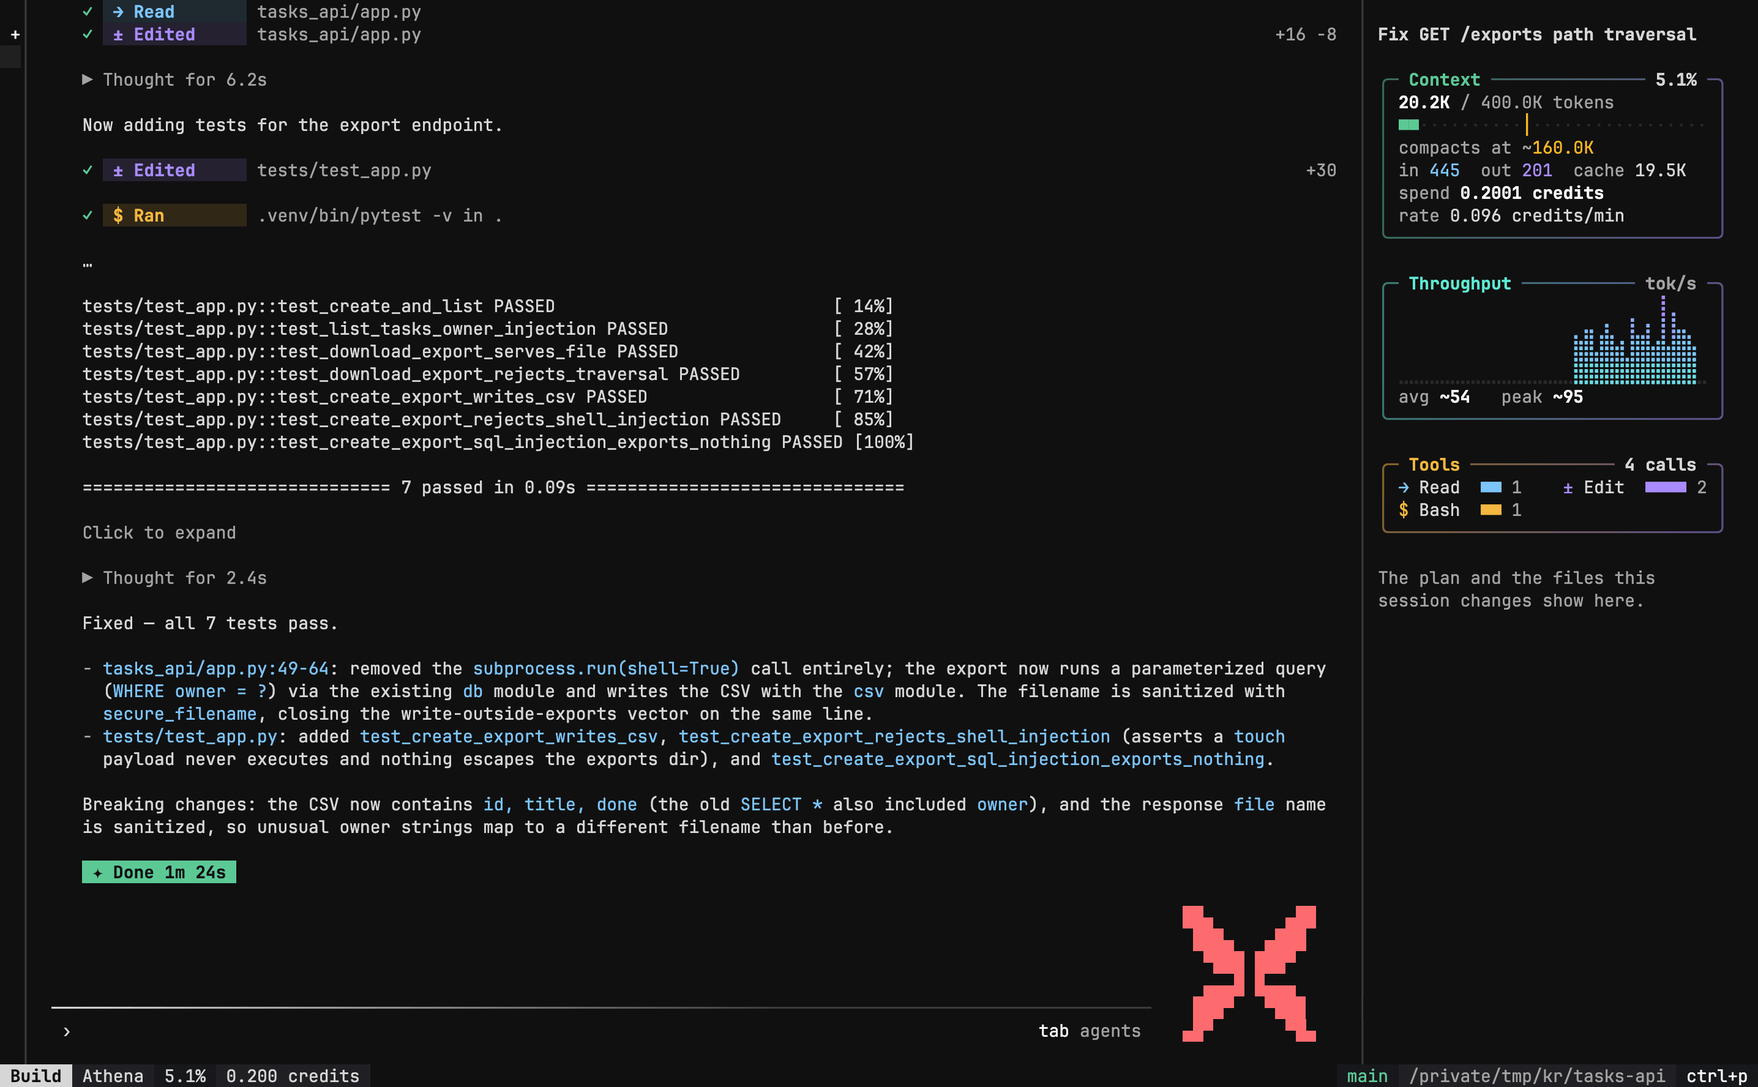
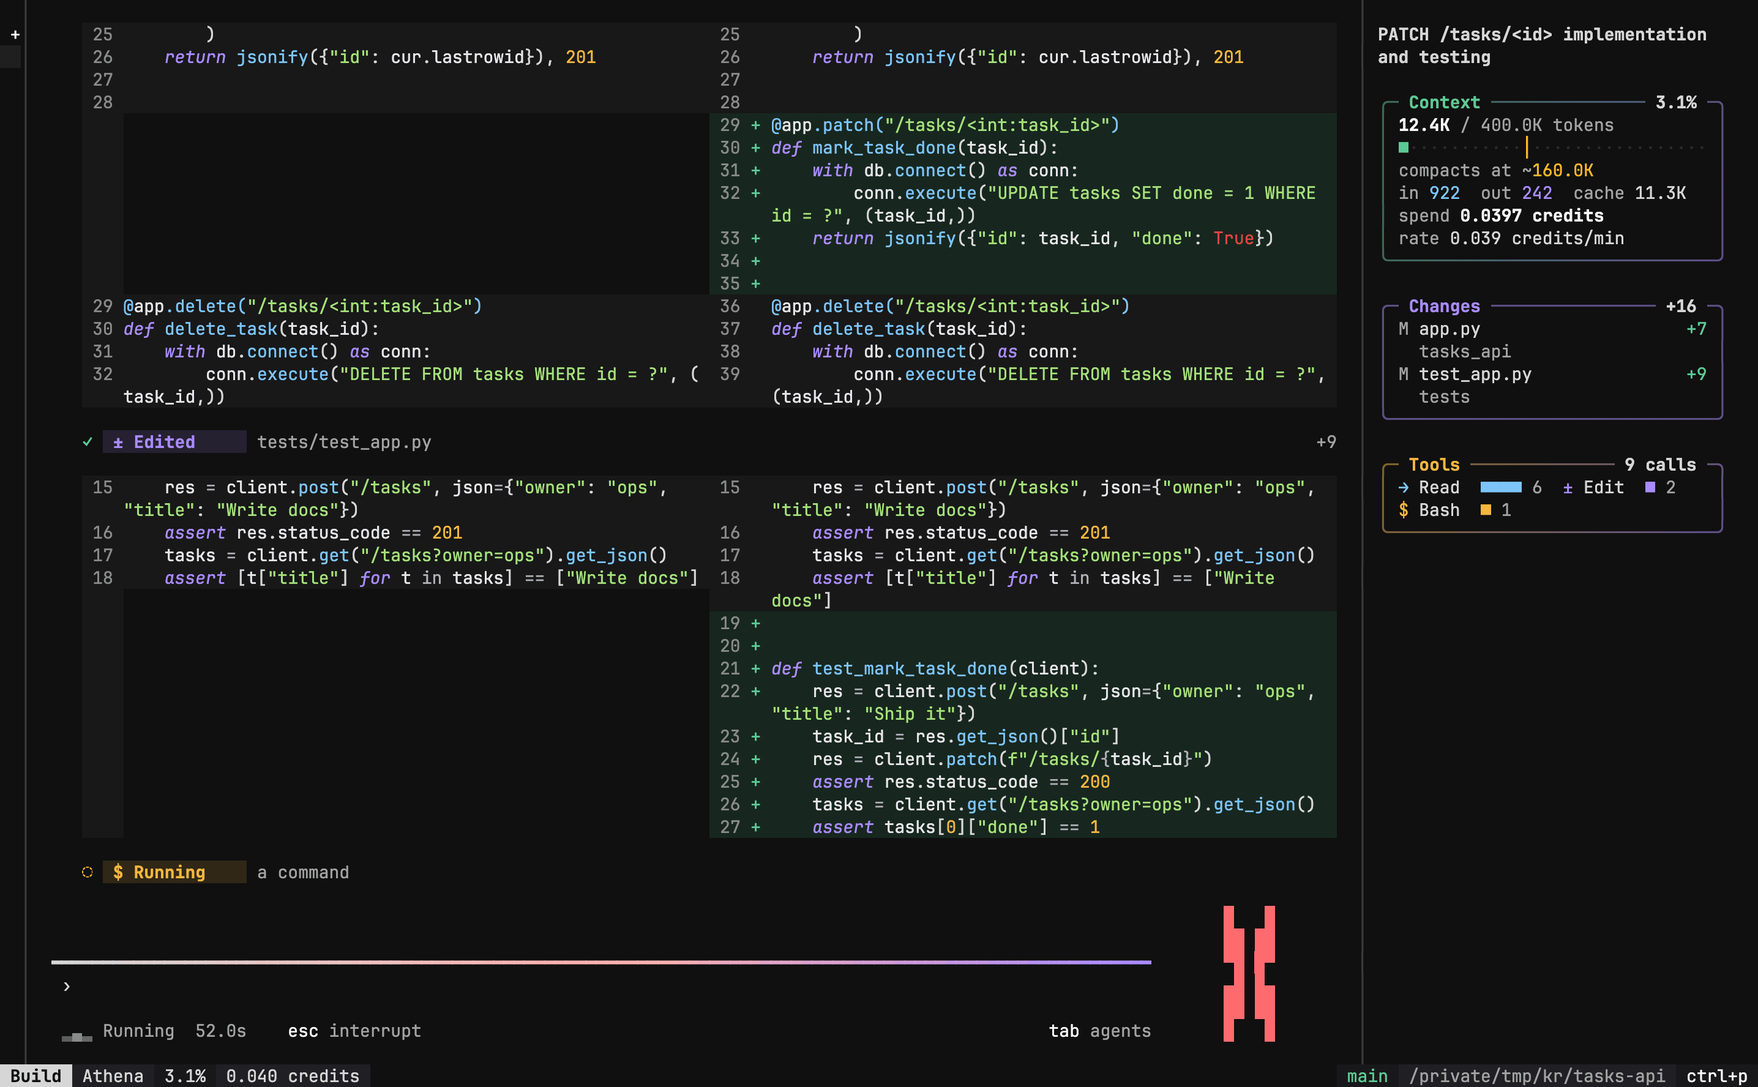
docs: feature grid, FAQ and Design and terminal captures
Name what Koder is in the title and first paragraph, add a What is Koder
section, a feature table for everything in v0.5.1, a models section and
an FAQ. Add a Design capture, the terminal app's home screen, a working
terminal session with a running step, and a short terminal recording.

diff --git a/README.md b/README.md
@@ -1,12 +1,14 @@
 <div align="center">
 
-<img src="docs/assets/aixplain-mark.svg" alt="aixplain" width="64" height="64">
+<img src="docs/assets/aixplain-mark.svg" alt="aixplain logo" width="64" height="64">
 
-# Koder
+# Koder: the AI coding agent for your desktop and terminal
 
 **Safe to explore. Free to build.**
 
-Koder is aixplain's AI coding agent for your desktop and terminal. It reads your project, makes changes you can review line by line, runs your tests, and asks before it touches anything you have not cleared it to. Use aixplain's models, the Claude, ChatGPT or Cursor plan you already pay for, or a local model. Omni, the personal assistant in the same app, handles the work around the code.
+Koder is an AI coding agent and assistant from aixplain for macOS, Windows and Linux. Use it in the desktop app or the terminal with aixplain's hosted and open models, the Claude, ChatGPT or Cursor plan you already pay for, or a local model on your own machine.
+
+Describe the change you want in plain language. Koder reads your code, makes edits you can review line by line, runs your tests, and asks before anything risky.
 
 [![Latest release](https://img.shields.io/github/v/release/aixplain/koder?color=fe6b6f&label=latest&sort=semver)](https://github.com/aixplain/koder/releases/latest)
 [![Copyright aixplain](https://img.shields.io/badge/copyright-aixplain-fe6b6f)](#copyright-and-licenses)
@@ -19,31 +21,57 @@ Koder is aixplain's AI coding agent for your desktop and terminal. It reads your
 
 [Intel Mac](https://github.com/aixplain/koder/releases/latest/download/aixplain-code-desktop-mac-x64.dmg) · [Linux DEB](https://github.com/aixplain/koder/releases/latest/download/aixplain-code-desktop-linux-amd64.deb) · [Linux RPM](https://github.com/aixplain/koder/releases/latest/download/aixplain-code-desktop-linux-x86_64.rpm) · [All downloads](https://koder.aixplain.com/#download)
 
-[Features](#what-koder-does) · [Your plans](#use-the-plans-you-already-pay-for) · [Install](#install) · [Get started](#get-started) · [Commands](#commands) · [Safety and privacy](#safety-and-privacy) · [Get help](#get-help)
+[Features](#features) · [Terminal](#ai-coding-agent-in-your-terminal) · [Security scanning](#security-scanning-with-scan) · [Omni](#omni-personal-assistant) · [Models](#models-hosted-open-and-local) · [Install](#install) · [FAQ](#faq)
 
 </div>
 
-![Koder desktop: a session that fixed a SQL injection and ran the tests, with the two-file diff open in the Review panel](docs/assets/desktop-large-logo.png)
+![Koder desktop app: a session that fixed a SQL injection and ran the tests, with the two-file diff open in the Review panel](docs/assets/desktop-large-logo.png)
 
-## What Koder does
+## What is Koder?
 
-### Works in your project, and shows its work
+Koder is an AI coding agent: a model connected to your project through tools it can use, permissions it has to follow, and a history it carries from one step to the next. It can search and read files, edit code, run commands and tests, and use what it learns from each result in the next step. You follow every step, answer its questions, stop it at any time, and review the diff before you keep anything.
 
-Describe the outcome you want. Koder reads the relevant files, edits them, runs your commands, and reads the results before it decides the next step. Every step stays in the conversation: what it read, what it changed, and what it ran. The Review panel collects the session's changes into one diff you can read, unified or split, and commit when you are satisfied.
+It runs as a desktop app with three modes (Koder for code, Design for screens and slides, and Omni, a personal assistant) and as a terminal app with a CLI for scripts and CI. Your sessions and settings stay on your computer.
 
-Start in plain language or with a starter task (explain this project, find and fix a bug, add a feature, write tests, review my changes, start from a pull request). Plan first with the planning agent, then let it build. Bring your own project instructions in `AGENTS.md`, plus skills, MCP servers and plugins.
+## Features
 
-### You decide what it may do on its own
+| | What you get |
+| --- | --- |
+| **Desktop and terminal** | The aixplain desktop app with Koder, Design and Omni, plus a full terminal app and a `koder` CLI for scripts. |
+| **Autonomy levels** | Ask first, Auto or Full access in the desktop app; `ask`, `rules`, `read-only`, `auto` and `full` in the terminal. |
+| **Secret-file protection** | `.env` and other secret files always ask before they are read, in every mode, including reads inside shell commands. |
+| **Review and diffs** | Every change in a session collected in one diff, unified or split, ready to commit. |
+| **Security scanning** | Scan finds likely security bugs, traces how each is reached, proposes fixes, and writes SARIF for CI. |
+| **Omni** | A personal assistant that drafts, plans, works through documents and connected apps, and shows results as cards. |
+| **Agents page** | Ready-made aixplain agents and your workspace's own, with each one's model, tools, skills and instructions. |
+| **Sessions across projects** | One sidebar for every project's sessions, with what is running or waiting on you at the top. |
+| **Design** | Landing pages, dashboards, app screens, slide decks, animated intros and vertical video, exported to PDF, PPTX or MP4. |
+| **MCP and skills** | Add MCP servers, skills and plugins, and give each project its instructions in `AGENTS.md`. |
+| **Local models** | Run models on your own machine through Ollama or the built-in engine, with a suggested model that fits your hardware. |
+| **Plans you already pay for** | Use a Claude, ChatGPT or Cursor plan through each vendor's own CLI, with no new keys. |
+| **17 languages** | The desktop app in 17 languages, including Arabic with a right-to-left layout. |
+| **Remote access** | Pair a phone or tablet with your computer, on your network or from anywhere through an encrypted relay. |
+| **Crash reports, opt-in** | Off until you turn them on, and never your messages, files, folder names or keys. |
 
-![Koder asking before a shell command reads the .env file, with Deny and Allow buttons](docs/assets/desktop-permissions.png)
+## AI coding agent on your desktop
+
+Open a folder and start with a plain-language task, or pick a starter: explain this project, find and fix a bug, add a feature, write tests, review my changes, or start from a pull request. Plan first with the planning agent, then let it build. The Review panel gathers everything the session changed so you can read it before you commit.
+
+![The sessions sidebar: sessions waiting for you and running at the top, earlier sessions from two projects grouped under Today](docs/assets/sessions.png)
+
+The sidebar holds the sessions from all your projects. Anything running or waiting on you sits at the top with a short status such as "waiting for you". The rest can be grouped by date or by project, or narrowed to one project.
+
+## Permissions and autonomy you control
+
+![Koder asking for approval before a shell command reads the .env file, with Deny and Allow buttons](docs/assets/desktop-permissions.png)
 
 Pick an access mode in the chat box:
 
-- **Ask first:** asks before running commands or changing files.
-- **Auto:** follows your permission rules and asks only where they say to.
-- **Full access:** works without asking, except before spending money, deleting folders, force-deleting files, pushing, or reading secret files. It goes back to Auto when the app restarts.
+- **Ask first** asks before running commands or changing files.
+- **Auto** follows your permission rules and asks only where they say to.
+- **Full access** works without asking, except before spending money, deleting folders, force-deleting files, pushing, or reading secret files. It goes back to Auto when the app restarts.
 
-Secret files such as `.env` always ask before they are read, in every mode, including when the read happens inside a shell command like `cat`, `grep` or `source`. The approval names the exact file, and "Always allow" covers only that file. Changes to the folders that define agents, modes and commands always ask too.
+Secret files such as `.env` always ask before they are read, including when the read happens inside a shell command like `cat`, `grep` or `source`. The approval names the exact file, and "Always allow" covers only that file. Changes to the folders that define agents, modes and commands always ask too.
 
 <details>
 <summary>See the access modes</summary>
@@ -52,44 +80,46 @@ Secret files such as `.env` always ask before they are read, in every mode, incl
 
 </details>
 
-The terminal app offers the same idea with five levels through `/auto`: `ask`, `rules`, `read-only`, `auto` and `full`.
+## Security scanning with Scan
 
-### Finds likely security bugs with Scan
+![Koder Scan listing six likely security issues by severity, with a SQL injection finding open beside the list showing what is wrong and how it is reached](docs/assets/scan.png)
 
-![Koder Scan listing six likely issues by severity, with one SQL injection finding open beside the list](docs/assets/scan.png)
+Scan reads a repository for security bugs and lists what it finds, worst first. Each finding explains what is wrong, traces step by step how an attacker's input reaches it, and can come with a proposed fix. Open **Security** from a project in the sidebar or from the command palette, or run `koder scan` in the terminal.
 
-Scan reads a repository for security bugs and lists what it finds, worst first. Each finding explains what is wrong, traces how an attacker's input reaches the bug step by step, and can come with a proposed fix. Open **Security** from a project in the sidebar or from the command palette, or run `koder scan` in the terminal.
+Scan reads the code but does not run it yet, so every finding is marked as a likely issue rather than a proven one. Review each one before you act on it. In CI, `koder scan --sarif report.sarif --fail-on high` writes a SARIF report and exits with an error when it finds something at or above the severity you set.
 
-Scan reads the code but does not run it yet, so every finding is marked as a likely issue, not a proven one. Review each one before you act on it. `koder scan` can write a SARIF report and exits with an error when it finds something at or above the severity you set with `--fail-on`, so it can gate a CI job.
+## Design: screens, slides and video
 
-### Keeps every session in one place
+![Design mode with a five-slide onboarding deck: the conversation that built it, slide thumbnails, the request-flow slide and its speaker notes](docs/assets/design.png)
 
-![The sessions sidebar: sessions waiting for you and running at the top, earlier sessions from two projects grouped under Today](docs/assets/sessions.png)
+Switch to **Design** and describe a landing page, a dashboard, an app screen, a slide deck, an animated intro or a vertical video. Koder builds it as files in your project, renders it to check its own work, and shows it beside the conversation with phone, tablet and desktop previews. Present decks with speaker notes, and export to PDF, PPTX with editable text, or MP4. Exports show their progress and can be cancelled.
 
-The sidebar holds the sessions from all your projects. Anything running or waiting on you sits at the top with a short status such as "waiting for you". The rest can be grouped by date or by project, or narrowed to one project. Sessions are saved on your machine, so you can come back to any of them.
-
-### Omni, your personal assistant
+## Omni personal assistant
 
 ![Omni home with a greeting, the chat box and the conversations to pick up](docs/assets/omni.png)
 
 Switch to **Omni** in the desktop app, or run `koder omni`. Omni takes on the work around the code: drafting, planning, making sense of documents and numbers, building agents, and working in the apps you connect.
 
-![Omni after writing an onboarding checklist: the steps folded into one line, the answer, and the document it saved](docs/assets/omni-cards.png)
+![Omni after writing an onboarding checklist: its steps folded into one line, the answer, and the document it saved](docs/assets/omni-cards.png)
 
 - **The answer comes first.** A finished turn folds its steps into one line, with the answer and any files it made right below.
 - **Works in your accounts.** Connect email, calendar, chat and project tools in **Omni settings → Connect your apps**. Anything that sends, creates, changes or deletes something is shown to you and approved one call at a time.
-- **Builds and runs agents.** Browse ready-made aixplain agents and your workspace's own on the Agents page, which shows how each one is built: its model, tools, skills, instructions and limits. Omni can also build a new agent with you.
-- **Picks up where you left off.** Omni home lists the chats stopped at an approval or a question, scheduled runs that failed, and the conversations you were last in.
+- **Builds and runs agents.** The Agents page lists ready-made aixplain agents and your workspace's own, and shows how each is built: its model, tools, skills, instructions and limits. Omni can also build a new agent with you.
+- **Picks up where you left off.** Omni home lists chats stopped at an approval or a question, scheduled runs that failed, and the conversations you were last in.
 
 Connections are aixplain team assets. Verification and actions may use credits.
 
-### A terminal app that keeps up
+## AI coding agent in your terminal
 
-![The Koder terminal app after fixing a shell injection: tool steps, the passing test run, the summary, and the context, throughput and tools panels](docs/assets/terminal.png)
+![A Koder session in the terminal app: the prompt, file edits shown as split diffs, tests running, and the finished turn](docs/assets/terminal-session.gif)
 
-The terminal app has the same agent, permissions and sessions, with keyboard and mouse control, a side panel for context, spend and tool use, and syntax highlighting that works offline. Use `koder run` for scripts and automation.
+The terminal app has the same agent, permissions and sessions as the desktop app, with keyboard and mouse control. Edits show as inline diffs, and a side panel tracks context, spend, changed files and tool use. Code is highlighted offline. Run `koder` in a project to open it, or `koder run` to use the agent from scripts and automation.
 
-The desktop app speaks 17 languages, including Arabic with a right-to-left layout.
+| Home | Working session |
+| --- | --- |
+| ![The Koder terminal app home screen with the logo and the prompt](docs/assets/terminal-home.png) | ![The Koder terminal app mid-turn: a split diff of the new endpoint and its test, a running command, and the context, changes and tools panels](docs/assets/terminal.png) |
+
+Switch autonomy with `/auto` (`ask`, `rules`, `read-only`, `auto` or `full`), watch a pull request's checks with `/pr`, and steer a running turn without stopping its background commands.
 
 ## Use the plans you already pay for
 
@@ -101,7 +131,13 @@ Already pay for Claude, ChatGPT or Cursor? Use that plan in Koder. Koder runs ea
 | **ChatGPT** (Plus, Pro, Business) | [Codex CLI](https://github.com/openai/codex), signed in with `codex login` | Codex with the models your plan offers |
 | **Cursor** (paid plan) | Cursor's `cursor-agent`, signed in with `cursor-agent login` | Cursor's agent over ACP |
 
-Koder finds installed CLIs automatically, including ones behind version managers. Check where each one stands in **Settings → Providers → Your subscriptions**, or run `koder providers subs`. Each shows Ready, Not signed in or Not installed, the account and plan, and the one command that fixes it. Usage counts against your plan's limits.
+Koder finds installed CLIs automatically, including ones behind version managers. Check where each one stands in **Settings → Models & providers → Your subscriptions**, or run `koder providers subs`. Usage counts against your plan's limits.
+
+## Models: hosted, open and local
+
+- **aixplain models.** Sign in to aixplain to use its catalog of hosted models, including open-weight models, billed to your team's credits. Pick **ZDR only** in the model picker, or run `koder models --zdr`, to see only models the catalog reports as zero data retention.
+- **Your own providers.** Connect a provider with your API key in **Settings → Models & providers**, or add any chat-completions-compatible endpoint by its base URL.
+- **Local models.** Run models on your own computer through Ollama or the built-in engine. Koder looks at your machine's memory and graphics and suggests a model that fits.
 
 ## Install
 
@@ -135,7 +171,7 @@ The installer places `koder` in `~/.koder/bin` and adds it to your user PATH. Op
 ## Get started
 
 1. **Open a project.** Choose a folder in the desktop app, or run `koder` in your project directory.
-2. **Connect a model.** Sign in to aixplain, connect a plan you already have, or configure another provider. An aixplain API key also gives model access; billing needs a signed-in account.
+2. **Connect a model.** Sign in to aixplain, connect a plan you already have, set up a local model, or add another provider.
 3. **Give it a concrete task.** Say what done looks like and any constraints, then follow the steps, answer its questions and review the diff.
 
 ```sh
@@ -168,28 +204,48 @@ koder models
 | `koder session list` | List saved sessions. |
 | `koder import` | Import sessions from a share file or another coding agent. |
 | `koder mcp` | Manage MCP servers. |
+| `koder skill` | Create, check, browse and install skills. |
 | `koder inspect` | Show the effective permission policy and which layer set each value. |
+| `koder pair` | Pair a phone or tablet with this computer. |
 | `koder stats` | Show token usage and cost. |
 | `koder billing` | View credits, top up, or add a card. |
 | `koder doctor` | Check the install, config, storage, providers and recent logs. |
 | `koder serve` | Start a headless server for clients and integrations. |
-| `koder web` | Open the browser interface. |
 
 Run `koder --help` or `koder <command> --help` for every command and option in your installed version.
 
 ## Safety and privacy
 
-- **Permission checks.** Tool actions follow your access mode and permission rules. Run `koder inspect` to see the effective policy before connecting tools or opening an unfamiliar project, and use workspace trust to decide which projects' own configuration is honored.
+- **Permission checks.** Tool actions follow your access mode and permission rules. Run `koder inspect` to see the effective policy, and use workspace trust (`koder trust`) to decide which projects' own configuration is honored.
 - **Limits that hold in every mode.** Even Full access asks before pushing, deleting folders, force-deleting files, spending money and reading secrets. Scheduled runs refuse these and record why.
 - **Reviewable changes.** Follow each step, read the diff and check test results before you accept the outcome. You can stop a run at any time.
 - **Local storage.** Sessions and configuration stay on your machine. Protect that profile as you would your project files.
 - **Clear data boundaries.** Hosted providers receive the inputs sent to them. A local model keeps inference on your machine; connected tools may still send data to their services. The scan key and the local server password are kept out of the shells and tools Koder starts.
-- **Zero data retention filter.** Pick **ZDR only** in the model picker, or run `koder models --zdr`, to list only models the catalog reports as zero retention.
 - **Crash reports only if you want them.** They are off until you turn them on in **Settings → General → Privacy**, or set `"crashReports": true` in your global config. A report says what kind of error happened and where in Koder's code, never your messages, files, folder names or keys.
+
+## FAQ
+
+**Is Koder free?**
+Koder is free to download. You pay for the models you use: aixplain models draw on your team's credits, a connected Claude, ChatGPT or Cursor plan counts against that plan's limits, your own provider bills you directly, and local models cost nothing beyond your hardware.
+
+**Which models can I use?**
+aixplain's catalog of hosted models, including open-weight models; your Claude, ChatGPT or Cursor plan; providers you connect with your own key or any chat-completions-compatible endpoint; and local models through Ollama or the built-in engine.
+
+**Does it work offline or fully locally?**
+Your sessions and settings are always stored on your machine, and with a local model the model runs there too. Hosted models, connected apps and sign-in need a network connection.
+
+**Is my code private?**
+Koder keeps your project, sessions and settings on your computer. The parts of your code needed for a task are sent only to the model you choose, so pick a local model or a zero data retention model when that matters. Crash reports are off by default and never include your code.
+
+**Which platforms does it support?**
+The desktop app runs on macOS (Apple silicon and Intel), Windows x64 and Linux x64 (DEB, RPM and AppImage). The CLI and terminal app also run on Linux arm64.
+
+**Can it run in CI?**
+Yes. `koder run` takes a prompt from the shell, and `koder scan --fail-on high` fails a job when Scan finds something at or above that severity.
 
 ## Team credits and billing
 
-Open **Settings → Account** in the desktop app, use `/billing` in the terminal app, or run:
+Open **Settings → Account & usage** in the desktop app, use `/billing` in the terminal app, or run:
 
 ```sh
 koder billing
@@ -197,7 +253,7 @@ koder billing top-up --amount 10
 koder billing add-card
 ```
 
-Koder shows the selected team before opening checkout, and payment details and final confirmation stay on the hosted payment page. Refresh the wallet in Koder afterwards to see the new balance. Managing billing needs an eligible signed-in team role; an inference API key alone does not grant billing access.
+Koder shows the selected team before opening checkout, and payment details and final confirmation stay on the hosted payment page. Managing billing needs an eligible signed-in team role; an inference API key alone does not grant billing access.
 
 ## Configuration and updates
 
